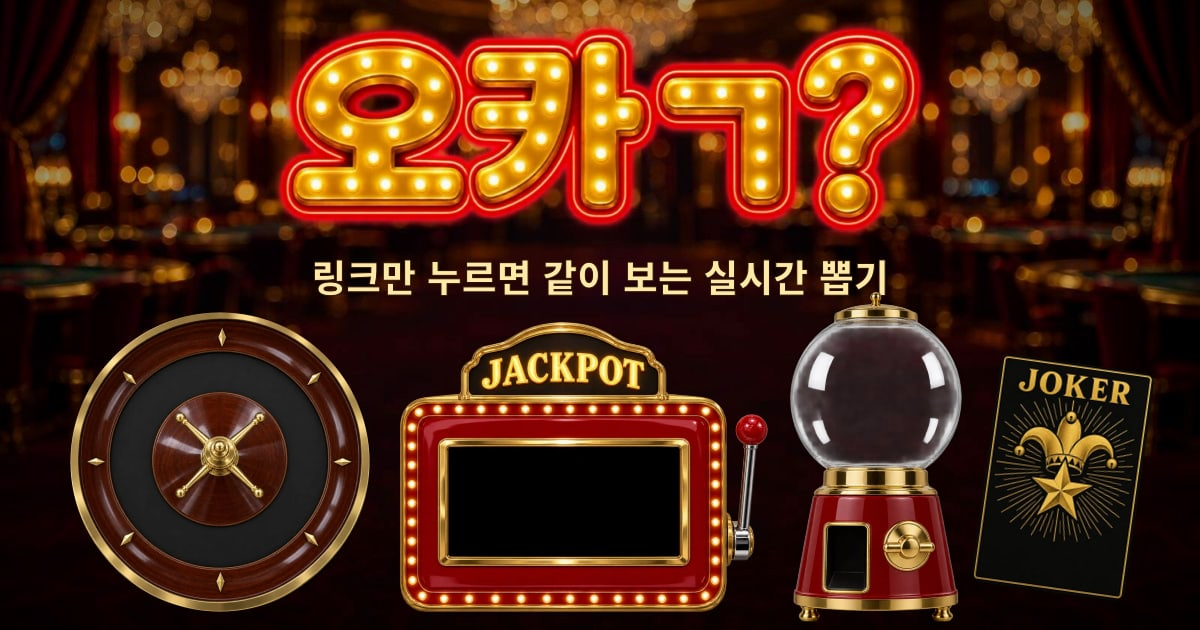
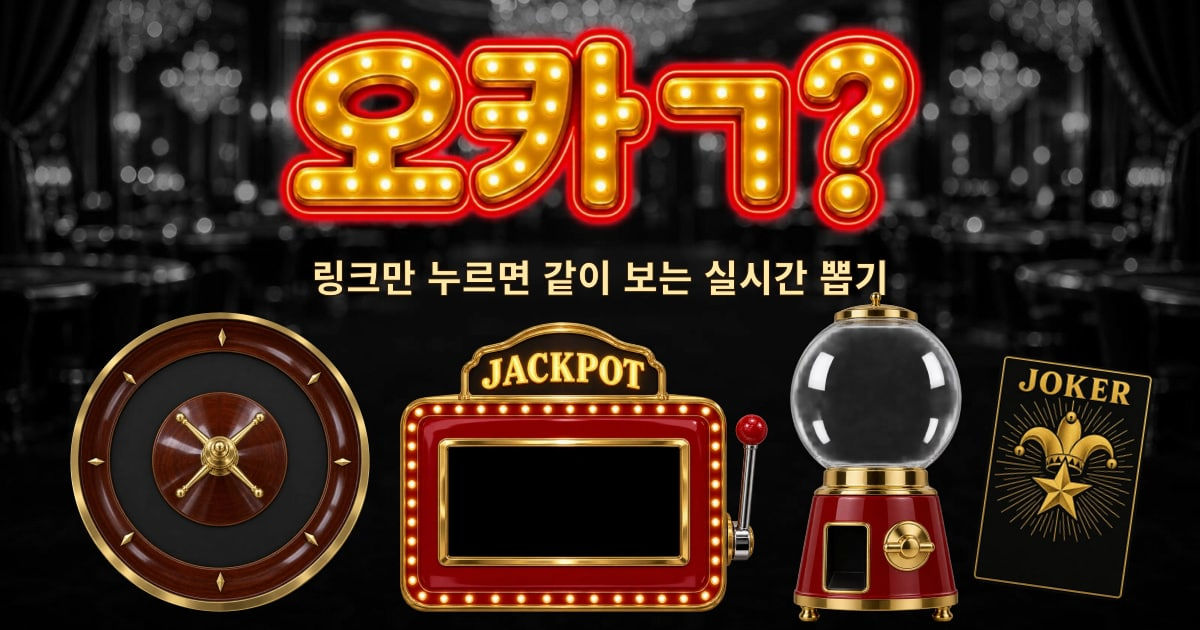
폭탄·주사위·제비 뽑기 추가, 휴대폰 우선 손질, 에메랄드 공유 미리보기
Claude-Session: https://claude.ai/code/session_01AtgNkHGRAiSxDWnrPzRNva

diff --git a/index.html b/index.html
@@ -126,7 +126,7 @@ button{-webkit-tap-highlight-color:transparent}
 .stageWrap:fullscreen{transform:none}
 .lite .stageWrap,.lite .stageWrap *{transform:none!important;will-change:auto;transform-style:flat}
 .lite .stage{perspective:none}
-.modes{display:grid;grid-template-columns:repeat(5,1fr);gap:4px;margin-bottom:12px;padding:4px;border-radius:14px;border:1px solid var(--line);background:var(--field)}
+.modes{display:grid;grid-template-columns:repeat(8,1fr);gap:4px;margin-bottom:12px;padding:4px;border-radius:14px;border:1px solid var(--line);background:var(--field)}
 .mode{
   display:flex;align-items:center;justify-content:center;gap:8px;min-height:46px;padding:9px 6px 8px;border:0;border-radius:10px;cursor:pointer;
   font:400 17px/1 var(--display);color:var(--dim);background:transparent;transition:background .15s,color .15s,box-shadow .15s;
@@ -252,7 +252,8 @@ textarea.field{display:block;width:100%;margin-top:8px;resize:vertical;min-heigh
 [hidden]{display:none!important}
 
 @media(max-width:900px){
-  .layout{grid-template-columns:1fr}
+  .layout{grid-template-columns:minmax(0,1fr)}
+  .stage,.modes{min-width:0;max-width:100%}
   /* 휴대폰: 뽑기 시작은 화면 맨 아래에 붙어서 스크롤해도 따라옵니다 */
   .gobar{position:fixed;left:0;right:0;bottom:0;z-index:8;padding:22px 14px calc(12px + env(safe-area-inset-bottom,0px));background:linear-gradient(180deg,rgba(4,18,14,0),rgba(4,18,14,.94) 34%);pointer-events:none}
   .gobar .btn.go{pointer-events:auto;max-width:560px;margin:0 auto;display:block;font-size:25px;padding:15px 16px 13px;border-radius:17px;box-shadow:inset 0 0 0 2px #FFD98A, 0 5px 0 #7A0A28, 0 10px 24px rgba(227,32,79,.45)}
@@ -260,10 +261,20 @@ textarea.field{display:block;width:100%;margin-top:8px;resize:vertical;min-heigh
   body.hasGo .toasts{bottom:calc(104px + env(safe-area-inset-bottom,0px))}
 }
 @media(max-width:520px){
-  .modes{gap:6px}
-  .mode{font-size:13.5px;gap:4px;padding:8px 0 7px;flex-direction:column;min-height:52px}
+  .modes{display:flex;gap:3px;overflow-x:auto;scrollbar-width:none;scroll-snap-type:x proximity;-webkit-overflow-scrolling:touch}
+  .modes::-webkit-scrollbar{display:none}
+  .mode{flex:0 0 auto;min-width:66px;font-size:13px;gap:4px;padding:8px 6px 7px;flex-direction:column;min-height:52px;scroll-snap-align:start}
   .mode svg{width:18px;height:18px}
-  .stage{padding:10px}
+  .stage{padding:8px}
+  .wrap{padding:12px 10px 64px}
+  .top{gap:8px;margin-bottom:12px}
+  .logo.art img{height:44px}
+  .btn.ghost{font-size:14px;padding:9px 12px 8px}
+  #copyBtn{font-size:16px;padding:10px 14px 9px}
+  .notice{font-size:12.5px;padding:8px 12px}
+  .under{margin-top:10px}
+  .status{font-size:14.5px}
+  .side{padding:16px 14px}
   .stageWrap{padding:12px}
   .win,.floaters{inset:14px}
   .emo{width:40px;height:40px;font-size:19px}
@@ -387,9 +398,12 @@ const ICON = {
   ladder: '<path d="M7 3v18M17 3v18M7 8h10M7 13h10M7 18h10"/>',
   capsule: '<circle cx="12" cy="12" r="9"/><path d="M3 12h18M8 7.5a5 5 0 0 1 4-2"/>',
   slot: '<rect x="3" y="5" width="15" height="14" rx="2.5"/><path d="M8 5v14M13 5v14M21 8v7"/><circle cx="21" cy="7" r="1.6"/>',
-  cards: '<rect x="3.5" y="6" width="10" height="14" rx="2" transform="rotate(-10 8.5 13)"/><rect x="10.5" y="4" width="10" height="14" rx="2" transform="rotate(8 15.5 11)"/>'
+  cards: '<rect x="3.5" y="6" width="10" height="14" rx="2" transform="rotate(-10 8.5 13)"/><rect x="10.5" y="4" width="10" height="14" rx="2" transform="rotate(8 15.5 11)"/>',
+  bomb: '<circle cx="11" cy="14" r="7"/><path d="M14 8l3-3M17 5l2-1M15.5 6.5l1.5 1.5"/>',
+  dice: '<rect x="3" y="3" width="18" height="18" rx="4"/><circle cx="8" cy="8" r="1.2" fill="currentColor"/><circle cx="16" cy="8" r="1.2" fill="currentColor"/><circle cx="12" cy="12" r="1.2" fill="currentColor"/><circle cx="8" cy="16" r="1.2" fill="currentColor"/><circle cx="16" cy="16" r="1.2" fill="currentColor"/>',
+  straws: '<path d="M5 10h14l-1.5 10h-11z"/><path d="M9 10V4M12 10V3M15 10V5"/><circle cx="12" cy="3" r="1.2" fill="currentColor"/>'
 };
-const MODES = [{id:'roulette',name:'룰렛'},{id:'slot',name:'슬롯'},{id:'cards',name:'카드'},{id:'capsule',name:'캡슐'},{id:'ladder',name:'사다리'}];
+const MODES = [{id:'roulette',name:'룰렛'},{id:'slot',name:'슬롯'},{id:'cards',name:'카드'},{id:'capsule',name:'캡슐'},{id:'ladder',name:'사다리'},{id:'bomb',name:'폭탄'},{id:'dice',name:'주사위'},{id:'straws',name:'제비'}];
 const COLORS = ['#FFC53D','#FF5C7A','#36E2D0','#B18CFF','#FF8A3D','#7BE65A','#4DB8FF','#FF7AE0'];
 const EMO = ['👏','😂','😱','🙏','☕','🔥'];
 const SPIN = 8000, HOLD = 2600, MIX = 3200, EACH = 3200, INTRO = 900, TRACE = 7000, LREV = 1400, LEAD = 3200, MISS = 1300, JHOLD = 2800;
@@ -611,7 +625,20 @@ function buildPlan(r) {
     Object.assign(plan, { R, rungs, winCols, paths, winners: idx.filter(i => winCols.includes(paths[i].end)), total: INTRO + TRACE + LREV });
   } else {
     const winners = shuffle(idx.slice(), rng).slice(0, k); plan.winners = winners;
-    if (r.mode === 'capsule') {
+    if (r.mode === 'bomb') {
+      plan.phases = winners.map((w, i) => { const rem = idx.filter(x => !winners.slice(0, i).includes(x)), j = rem.indexOf(w), start = Math.floor(rng() * rem.length); return { rem, start, hops: ((j - start) % rem.length + rem.length) % rem.length + rem.length * (2 + Math.floor(rng() * 2)) + (rem.length < 4 ? rem.length * 2 : 0) }; });
+      plan.total = k * (BHOP + BHOLD);
+    } else if (r.mode === 'dice') {
+      /* 당첨자가 가장 높은 눈. 당첨이 여럿이면 6,5,4… 순서로, 나머지는 그보다 낮은 눈 */
+      plan.vals = idx.map(() => 1 + Math.floor(rng() * Math.max(1, 6 - k))); winners.forEach((w, i) => { plan.vals[w] = 6 - i; });
+      const order = shuffle(idx.slice(), rng), gap = clamp(2200 / n, 90, 350); plan.settleAt = []; order.forEach((i, q) => { plan.settleAt[i] = DROLL + q * gap; });
+      plan.revealAt = DROLL + (n - 1) * gap + DREV; plan.total = plan.revealAt + DHOLD;
+    } else if (r.mode === 'straws') {
+      const order = shuffle(idx.filter(x => !winners.includes(x)), rng);
+      winners.forEach(w => { const lo = Math.ceil(order.length * .5); order.splice(lo + Math.floor(rng() * (order.length - lo + 1)), 0, w); });
+      const gap = clamp(7000 / n, 380, 900); let t = 700; plan.pullAt = []; order.forEach(i => { plan.pullAt[i] = t; t += winners.includes(i) ? gap + 500 : gap; });
+      plan.revealAt = t + 300; plan.total = plan.revealAt + 2200;
+    } else if (r.mode === 'capsule') {
       plan.total = MIX + k * EACH;
     } else if (r.mode === 'cards') {
       /* 한 장씩 뒤집고, 조커를 받은 사람이 당첨. 조커는 뒤쪽 순서에 섞여 있습니다. */
@@ -796,8 +823,8 @@ function drawBackdrop(T) {
   if (!PHONE || GLOW) {   /* 색이 천천히 흐르는 조명: 작은 캔버스에 가끔만 다시 그립니다 */
     const hue = Math.floor((T * .008) % 360 / 3) * 3;
     if (hue !== hueLast || hueCv.width !== Math.ceil(W / 8)) { hueLast = hue; hueCv.width = Math.ceil(W / 8); hueCv.height = Math.ceil(H / 8); const w = hueCv.width, h = hueCv.height;
-      const cg = huex.createRadialGradient(w * (.5 + .35 * Math.sin(T * .00011)), h * .5, 0, w * .5, h * .5, Math.max(w, h) * .7); cg.addColorStop(0, `hsl(${hue} 90% 60%)`); cg.addColorStop(1, 'rgba(0,0,0,0)'); huex.clearRect(0, 0, w, h); huex.fillStyle = cg; huex.fillRect(0, 0, w, h); }
-    ctx.save(); ctx.globalCompositeOperation = 'lighter'; ctx.globalAlpha = .13; ctx.drawImage(hueCv, 0, 0, W, H); ctx.restore();
+      const cg = huex.createRadialGradient(w * (.5 + .35 * Math.sin(T * .00011)), h * .5, 0, w * .5, h * .5, Math.max(w, h) * .7); cg.addColorStop(0, `hsl(${hue} 80% 55%)`); cg.addColorStop(.4, `hsl(${hue} 80% 55% / .3)`); cg.addColorStop(1, `hsl(${hue} 80% 55% / 0)`); huex.clearRect(0, 0, w, h); huex.fillStyle = cg; huex.fillRect(0, 0, w, h); }
+    ctx.save(); ctx.globalCompositeOperation = 'lighter'; ctx.globalAlpha = .09; ctx.drawImage(hueCv, 0, 0, W, H); ctx.restore();
   }
   for (const k of [0, 1]) ctx.drawImage(lightCv, W * (.5 + .4 * Math.sin(T * .00021 + k * 2.4)) - r + px * 18 * (k + 1), H * (.45 + .22 * Math.cos(T * .00017 + k * 1.3)) - r + py * 12 * (k + 1), r * 2, r * 2);
   const rng = mulberry32(77);
@@ -1200,12 +1227,158 @@ function drawWinFx(plan, t, T) {
   }
 }
 
+
+/* ───────── 폭탄 돌리기: 폭탄이 사람들 사이를 돌다가 멈춘 사람이 당첨 ───────── */
+const BHOP = 6200, BHOLD = 2400;
+function avatarRing(n) {   /* 참가자를 둥글게 배치. 많으면 두 겹 */
+  const cx = W / 2, cy = H / 2 + 6, two = n > 12, R1 = Math.min(W, H) * (two ? .4 : .36), R2 = R1 * .58, pts = [];
+  const n1 = two ? Math.ceil(n * .62) : n, n2 = n - n1, ar = clamp(Math.min(W, H) * (two ? .055 : .075) * (n1 > 8 ? 8 / n1 + .5 : 1), 14, 34);
+  for (let i = 0; i < n; i++) {
+    const inner = i >= n1, m = inner ? n2 : n1, q = inner ? i - n1 : i, a = -Math.PI / 2 + q / m * TAU + (inner ? Math.PI / m : 0), r = inner ? R2 : R1;
+    pts.push({ x: cx + Math.cos(a) * r, y: cy + Math.sin(a) * r * .88, r: ar });
+  }
+  return pts;
+}
+function avatarDot(p, who, r, dim, lit) {
+  ctx.save(); ctx.globalAlpha = dim ? .28 : 1;
+  disc(p.x + 2, p.y + 4, r, 'rgba(0,0,0,.4)');
+  disc(p.x, p.y, r + 2.5, lit ? '#FFF7D1' : 'rgba(255,255,255,.85)'); disc(p.x, p.y, r, vgrad(p.y - r, p.y + r, shade(who.color, .35), who.color, shade(who.color, -.15)));
+  if (lit) emit(() => disc(p.x, p.y, r * 1.5, 'rgba(255,220,130,.35)'));
+  const [t, px] = fitFont(Array.from(who.name)[0] || '?', r * 1.05, r * 1.6); ctx.fillStyle = INK; ctx.textAlign = 'center'; ctx.textBaseline = 'middle'; ctx.fillText(t, p.x, p.y + px * .07);
+  ctx.font = font(clamp(r * .62, 10, 14)); const nm = fit(who.name, r * 3.2); ctx.lineWidth = 3; ctx.strokeStyle = 'rgba(0,0,0,.55)'; ctx.strokeText(nm, p.x, p.y + r + 12); ctx.fillStyle = '#FFF4DC'; ctx.fillText(nm, p.x, p.y + r + 12);
+  ctx.restore();
+}
+function bombAt(ph, t) {   /* 몇 번째 사람 위에 있나: 처음엔 빠르게, 끝엔 느리게 */
+  const u = clamp(t / BHOP, 0, 1), eased = 1 - Math.pow(1 - u, 3.2), h = Math.floor(ph.hops * eased + 1e-6);
+  return { i: (ph.start + h) % ph.rem.length, h, next: (ph.start + h + 1) % ph.rem.length, frac: ph.hops * eased - h };
+}
+function drawBomb(P, plan, e, T) {
+  const n = P.length; if (!n) { waiting('참가자를 기다리는 중'); return; }
+  const live = plan && e >= 0, s = live ? seqPosB(e, plan.k) : null, ph = s ? plan.phases[s.i] : null;
+  const items = ph ? ph.rem : P.map((_, i) => i), pts = avatarRing(items.length), gone = plan ? plan.winners.slice(0, s ? s.i + (s.hold ? 1 : 0) : 0) : [];
+  const b = ph ? bombAt(ph, Math.min(s.local, BHOP)) : null, boom = s && s.hold ? s.local - BHOP : -1;
+  items.forEach((pi, q) => avatarDot(pts[q], P[pi], pts[q].r, gone.includes(pi) && !(s && s.hold && pi === plan.winners[s.i]), b && !s.hold && b.i === q && (Math.floor(T / 90) % 2 === 0 || b.frac < .5)));
+  if (!plan) { ctx.font = font(clamp(W / 26, 14, 20), true); ctx.textAlign = 'center'; ctx.fillStyle = '#FFE9A6'; ctx.fillText('폭탄이 멈춘 사람이 당첨', W / 2, H / 2 + 6); return; }
+  if (!b) return;
+  const br = clamp(Math.min(W, H) * .07, 18, 40);
+  if (boom < 0) {
+    const a = pts[b.i], nx = pts[b.next], f = clamp((b.frac - .35) / .65, 0, 1), jump = Math.sin(f * Math.PI);
+    const x = a.x + (nx.x - a.x) * f, y = a.y - a.r - br * .9 + (nx.y - a.y) * f - jump * br * 1.6;
+    const fuse = clamp((s.local - (BHOP - 1400)) / 1400, 0, 1);
+    ctx.save(); ctx.translate(x, y); ctx.rotate(Math.sin(T * .006) * .12 * (1 - fuse) + f * .3);
+    disc(3, 5, br, 'rgba(0,0,0,.4)');
+    const bg = ctx.createRadialGradient(-br * .35, -br * .35, br * .1, 0, 0, br); bg.addColorStop(0, '#5A5A66'); bg.addColorStop(.6, '#1C1C24'); bg.addColorStop(1, '#07070A');
+    disc(0, 0, br, bg); disc(-br * .3, -br * .32, br * .22, 'rgba(255,255,255,.35)');
+    rr(-br * .22, -br * 1.15, br * .44, br * .4, 4, '#8A8A96');
+    ctx.lineWidth = 3; ctx.strokeStyle = '#C9A15A'; ctx.beginPath(); ctx.moveTo(0, -br * 1.1); ctx.quadraticCurveTo(br * .5, -br * 1.7, br * .9 * (1 - fuse * .8), -br * (1.9 - fuse * .5)); ctx.stroke();
+    const sx = br * .9 * (1 - fuse * .8), sy = -br * (1.9 - fuse * .5);
+    emit(() => { disc(sx, sy, 4 + Math.random() * 3, '#FFF3B0'); disc(sx, sy, 9 + Math.random() * 4, 'rgba(255,170,40,.45)'); });
+    if (!REDUCED) for (let i = 0; i < 5; i++) { const an = (T * .02 + i * 1.3) % TAU, d = 8 + ((T * .25 + i * 37) % 22); disc(sx + Math.cos(an) * d, sy + Math.sin(an) * d - d * .4, 1.6, 'rgba(255,220,140,.8)'); }
+    ctx.restore();
+    if (fuse > 0 && ph.rem.length > 1) { ctx.font = font(clamp(W / 22, 15, 24), true); ctx.textAlign = 'center'; ctx.fillStyle = `rgba(255,120,120,${.6 + .4 * Math.sin(T * .02)})`; ctx.fillText('곧 터집니다…', W / 2, H / 2 + 6); }
+  } else {
+    const a = pts[b.i], w = P[ph.rem[b.i]], k = boom / 1000;
+    if (k < .9 && !REDUCED) {
+      const rr0 = br * (1 + k * 9);
+      ctx.save(); ctx.globalAlpha = 1 - k / .9;
+      disc(a.x, a.y, rr0, `rgba(255,140,40,${.5 * (1 - k)})`); disc(a.x, a.y, rr0 * .6, `rgba(255,230,160,${.7 * (1 - k)})`);
+      ctx.lineWidth = 6 * (1 - k); ctx.strokeStyle = '#FFF3B0'; ctx.beginPath(); ctx.arc(a.x, a.y, rr0 * 1.1, 0, TAU); ctx.stroke();
+      const rng = mulberry32(plan.seed ^ (s.i + 1) * 977);
+      for (let i = 0; i < 26; i++) { const an = rng() * TAU, sp = 90 + rng() * 220, d = sp * k, sz = 2 + rng() * 4; disc(a.x + Math.cos(an) * d, a.y + Math.sin(an) * d + 120 * k * k, sz, i % 3 ? '#3A3A44' : '#FF9A3D'); }
+      ctx.restore();
+    }
+    for (let i = 0; i < 4; i++) { const t2 = k - i * .12; if (t2 > 0 && t2 < 1.6) disc(a.x + (i - 1.5) * 14, a.y - 30 - t2 * 60, 14 + t2 * 22, `rgba(60,60,70,${.35 * (1 - t2 / 1.6)})`); }
+    namePlate(W / 2, H / 2 + 6, w.name, w.color, back((boom - 250) / 450), Math.min(W - 40, 440));
+  }
+}
+function seqPosB(e, k) {
+  const i = Math.min(Math.floor(e / (BHOP + BHOLD)), k - 1), local = e - i * (BHOP + BHOLD);
+  return { i, local, hold: local >= BHOP };
+}
+
+/* ───────── 주사위: 모두 한 번에 굴리고, 가장 높은 눈이 당첨 ───────── */
+const DROLL = 3000, DREV = 1200, DHOLD = 2000;
+function diceGrid(n) {
+  const cols = clamp(Math.ceil(Math.sqrt(n * (W / H) * 1.1)), 1, 8), rows = Math.ceil(n / cols);
+  const cw = (W - 24) / cols, chh = (H - 36) / rows, sz = clamp(Math.min(cw * .5, chh * .42), 22, 74), pts = [];
+  for (let i = 0; i < n; i++) { const c = i % cols, r = Math.floor(i / cols), inRow = Math.min(cols, n - r * cols), off = (cols - inRow) * cw / 2; pts.push({ x: 12 + off + cw * (c + .5), y: 18 + chh * (r + .5) - sz * .12, sz }); }
+  return pts;
+}
+function drawDie(x, y, sz, face, rot, tilt, color) {
+  ctx.save(); ctx.translate(x, y); ctx.rotate(rot); ctx.scale(1, Math.max(.3, Math.abs(Math.cos(tilt))));
+  rr(-sz / 2 + 3, -sz / 2 + 6, sz, sz, sz * .2, 'rgba(0,0,0,.4)');
+  rr(-sz / 2, -sz / 2, sz, sz, sz * .2, vgrad(-sz / 2, sz / 2, '#FFFDF4', '#F0E8D2', '#CFC3A4'), 'rgba(90,70,40,.6)', 1.5);
+  rr(-sz / 2 + 4, -sz / 2 + 3, sz - 8, sz * .3, sz * .12, 'rgba(255,255,255,.55)');
+  const pip = sz * .09, o = sz * .27, P6 = { 1: [[0, 0]], 2: [[-o, -o], [o, o]], 3: [[-o, -o], [0, 0], [o, o]], 4: [[-o, -o], [o, -o], [-o, o], [o, o]], 5: [[-o, -o], [o, -o], [0, 0], [-o, o], [o, o]], 6: [[-o, -o], [o, -o], [-o, 0], [o, 0], [-o, o], [o, o]] };
+  for (const [px, py] of P6[face] || []) { disc(px, py + 1, pip, 'rgba(0,0,0,.25)'); disc(px, py, pip, face === 1 || face === 4 ? '#D7263D' : color || '#1A0A0E'); }
+  ctx.restore();
+}
+function drawDice(P, plan, e, T) {
+  const n = P.length; if (!n) { waiting('참가자를 기다리는 중'); return; }
+  const pts = diceGrid(n), live = plan && e >= 0, rng = mulberry32((plan ? plan.seed : 7) ^ 0xD1CE);
+  if (!plan) { ctx.font = font(clamp(W / 26, 14, 20), true); ctx.textAlign = 'center'; ctx.fillStyle = '#FFE9A6'; ctx.fillText('가장 높은 눈이 당첨', W / 2, H - 14); }
+  P.forEach((who, i) => {
+    const p = pts[i], settleAt = plan ? plan.settleAt[i] : 0, settled = live && e >= settleAt, rolling = live && !settled;
+    const ph = rng() * TAU, spd = 7 + rng() * 5;
+    let face = plan ? plan.vals[i] : 1 + Math.floor(rng() * 6), rot = 0, tilt = 0, y = p.y;
+    if (rolling) { const u = e / settleAt, slow = clamp((settleAt - e) / 900, 0, 1); face = 1 + Math.floor((e / (80 + (1 - slow) * 260) + i * 2.3) % 6); rot = Math.sin(T * .004 * spd + ph) * .6 * slow; tilt = T * .009 * spd * slow + ph; y = p.y - Math.abs(Math.sin(T * .006 * spd + ph)) * p.sz * .5 * slow; }
+    const win = plan && plan.winners.includes(i), rev = live && e >= plan.revealAt, dim = rev && !win;
+    ctx.save(); if (dim) ctx.globalAlpha = .35;
+    if (rev && win) emit(() => disc(p.x, p.y, p.sz * .95, `rgba(255,220,130,${.25 + .15 * Math.sin(T * .01)})`));
+    drawDie(p.x, y, p.sz, face, rot, tilt, settled && win && rev ? '#B8860B' : null);
+    if (settled && !REDUCED && e - settleAt < 260) { const k = (e - settleAt) / 260; ctx.strokeStyle = `rgba(255,243,176,${1 - k})`; ctx.lineWidth = 3; ctx.beginPath(); ctx.arc(p.x, p.y, p.sz * (.7 + k * .6), 0, TAU); ctx.stroke(); }
+    ctx.font = font(clamp(p.sz * .3, 11, 16)); ctx.textAlign = 'center'; ctx.textBaseline = 'middle'; const nm = fit(who.name, p.sz * 2.2);
+    ctx.lineWidth = 3; ctx.strokeStyle = 'rgba(0,0,0,.55)'; ctx.strokeText(nm, p.x, p.y + p.sz * .78); ctx.fillStyle = rev && win ? '#FFE9A6' : '#FFF4DC'; ctx.fillText(nm, p.x, p.y + p.sz * .78);
+    ctx.restore();
+  });
+  if (live && e >= plan.revealAt) { const w = plan.winners.map(i => P[i]); namePlate(W / 2, H / 2, plan.names.join(', '), w[0].color, back((e - plan.revealAt - 200) / 450), Math.min(W - 40, 460)); }
+}
+
+/* ───────── 제비뽑기: 통에서 하나씩 뽑고, 끝이 빨간 제비가 당첨 ───────── */
+function drawStraws(P, plan, e, T) {
+  const n = P.length; if (!n) { waiting('참가자를 기다리는 중'); return; }
+  const cw = Math.min(W * .5, 300), chh = Math.min(H * .42, 210), cx = W / 2, cy = H - 26 - chh / 2, top = cy - chh / 2, bot = cy + chh / 2;
+  const live = plan && e >= 0, len = clamp(Math.min(H * .42, (top - 50) / 1.06), 70, 230), sw = clamp(Math.min(cw * 1.3 / n, 14), 5, 14), spread = Math.min(cw * .78, n * (sw + 6));
+  const X = i => cx - spread / 2 + spread * (n === 1 ? .5 : i / (n - 1)), tipR = sw * 1.1;
+  /* 통 뒤판 */
+  ctx.fillStyle = 'rgba(0,0,0,.45)'; ctx.beginPath(); ctx.ellipse(cx, bot + 4, cw * .56, 12, 0, 0, TAU); ctx.fill();
+  const cupBack = () => { ctx.beginPath(); ctx.moveTo(cx - cw / 2, top); ctx.lineTo(cx + cw / 2, top); ctx.lineTo(cx + cw * .44, bot); ctx.lineTo(cx - cw * .44, bot); ctx.closePath(); };
+  cupBack(); ctx.fillStyle = vgrad(top, bot, '#2A1604', '#120903'); ctx.fill();
+  /* 제비: 표시는 아래쪽 끝에 있어 통 안에 숨어 있고, 뽑아 올리면 드러납니다 */
+  const order = plan ? plan.pullAt : null, lastPull = order ? Math.max(...order.filter(t => live && e >= t), -1) : -1;
+  P.forEach((who, i) => {
+    const x = X(i), pa = order ? order[i] : Infinity, pulled = live && e >= pa, u = pulled ? clamp((e - pa) / 750, 0, 1) : 0, rise = 1 - Math.pow(1 - u, 3);
+    const win = plan && plan.winners.includes(i), tilt = (i - (n - 1) / 2) / Math.max(n - 1, 1) * .16 * (1 - rise);
+    const yTop = top - len * .42 - rise * len * .64, yBot = yTop + len, tipShow = clamp((top - 4 - yBot) / (tipR * 2), 0, 1);
+    ctx.save(); ctx.translate(x, top); ctx.rotate(tilt); ctx.translate(-x, -top);
+    rr(x - sw / 2 + 2, yTop + 3, sw, len, sw / 2, 'rgba(0,0,0,.35)');
+    rr(x - sw / 2, yTop, sw, len, sw / 2, vgrad(yTop, yBot, '#F6E6C2', '#D9B986'), 'rgba(90,60,20,.5)', 1);
+    ctx.fillStyle = 'rgba(255,255,255,.35)'; ctx.fillRect(x - sw / 2 + 1.5, yTop + 3, sw * .25, len - 6);
+    if (tipShow > 0) {
+      if (win) { emit(() => disc(x, yBot - tipR, tipR * 2.4 * tipShow, `rgba(255,80,110,${.4 * tipShow})`)); disc(x, yBot - tipR, tipR * 1.15 * tipShow, vgrad(yBot - tipR * 2, yBot, '#FF8DA6', '#E0244F', '#8E0D2E')); disc(x - tipR * .3, yBot - tipR * 1.3, tipR * .3 * tipShow, 'rgba(255,255,255,.55)'); }
+      else disc(x, yBot - tipR, tipR * .85 * tipShow, '#3A2A1A');
+    }
+    ctx.restore();
+    if (pulled && (win || pa === lastPull)) { ctx.font = font(clamp(sw * 1.15, 11, 15)); ctx.textAlign = 'center'; ctx.textBaseline = 'middle'; const nm = fit(who.name, 90); ctx.lineWidth = 3; ctx.strokeStyle = 'rgba(0,0,0,.6)'; ctx.strokeText(nm, x, yTop - 12); ctx.fillStyle = win ? '#FFB3C4' : '#FFF4DC'; ctx.fillText(nm, x, yTop - 12); }
+  });
+  /* 통 앞판 */
+  cupBack(); ctx.fillStyle = vgrad(top, bot, '#8A1F3A', '#4A0E1F'); ctx.fill();
+  ctx.lineWidth = 2; ctx.strokeStyle = '#E8B93A'; ctx.stroke();
+  ctx.fillStyle = 'rgba(255,255,255,.1)'; ctx.beginPath(); ctx.moveTo(cx - cw * .42, top + 8); ctx.lineTo(cx - cw * .3, top + 8); ctx.lineTo(cx - cw * .26, bot - 8); ctx.lineTo(cx - cw * .37, bot - 8); ctx.closePath(); ctx.fill();
+  ctx.beginPath(); ctx.ellipse(cx, top, cw / 2, 12, 0, 0, TAU); ctx.fillStyle = '#5E1227'; ctx.fill(); ctx.strokeStyle = '#FFE08A'; ctx.lineWidth = 2.5; ctx.stroke();
+  ctx.beginPath(); ctx.ellipse(cx, top, cw / 2 - 8, 7, 0, 0, TAU); ctx.fillStyle = '#1A0A0E'; ctx.fill();
+  ctx.font = font(clamp(cw * .11, 14, 26), true); ctx.textAlign = 'center'; ctx.textBaseline = 'middle'; ctx.fillStyle = '#FFE08A'; ctx.fillText('제비뽑기', cx, cy + 10);
+  if (!plan) { ctx.font = font(clamp(W / 26, 14, 20), true); ctx.fillStyle = '#FFE9A6'; ctx.fillText('끝이 빨간 제비가 당첨', W / 2, 30); }
+  /* 뽑는 중인 이름 안내 */
+  if (live && e >= plan.revealAt) { const w = plan.winners.map(i => P[i]); namePlate(W / 2, Math.max(60, top - len * .9 - 50), plan.names.join(', '), w[0].color, back((e - plan.revealAt - 150) / 450), Math.min(W - 40, 460)); }
+}
+
 /* ───────── 소리 타이밍: 지나간 순간만 한 번 울립니다 ───────── */
 let prevE = -Infinity, prevRound = null;
 let reelA = null;
 function cues(plan, e) {
   const hit = t => prevE < t && e >= t && e - t < 260;
-  if (hit(-3000)) snd.say('go_' + plan.mode);
+  if (hit(-3000)) snd.say(snd.has('v_go_' + plan.mode) ? 'go_' + plan.mode : 'drum');
   for (const t of [-3000, -2000, -1000]) if (hit(t)) sfx.beep(false);
   if (hit(0)) sfx.beep(true);
   if (plan.mode === 'roulette') for (let i = 0; i < plan.k; i++) {
@@ -1245,6 +1418,23 @@ function cues(plan, e) {
     if (hit(INTRO + TRACE - 4000)) snd.fx('drumroll', .7);
     if (hit(INTRO + TRACE - 2400)) snd.say('drum');
     if (hit(INTRO + TRACE)) sfx.ding();
+  }
+  if (plan.mode === 'bomb') for (let i = 0; i < plan.k; i++) {
+    const s = i * (BHOP + BHOLD), ph = plan.phases[i];
+    if (e >= s && e < s + BHOP && prevE >= s) { const a = bombAt(ph, e - s).h, b = bombAt(ph, prevE - s).h; if (a !== b) sfx.tick(.9 + (a % 3) * .15); }
+    if (hit(s) && i > 0) snd.say('next');
+    if (hit(s + BHOP - 1400)) sfx.rise(1.3);
+    if (hit(s + BHOP)) { sfx.thunk(); snd.fx('pop', .9, () => sfx.pop()); snd.fx('sting', .5); snd.say('pick'); buzz([40, 30, 160]); }
+  }
+  else if (plan.mode === 'dice') {
+    if (hit(0)) snd.fx('rattle', .8);
+    if (!snd.has('s_rattle') && e >= 0 && e < DROLL && Math.floor(e / 110) !== Math.floor(prevE / 110)) sfx.tick(.6 + Math.random() * .5);
+    plan.settleAt.forEach(t => { if (hit(t)) sfx.clack(); });
+    if (hit(plan.revealAt)) { sfx.ding(); snd.say('pick'); }
+  }
+  else if (plan.mode === 'straws') {
+    plan.pullAt.forEach((t, i) => { if (hit(t)) snd.fx('flip', .6, () => sfx.swish()); if (plan.winners.includes(i) && hit(t + 320)) { snd.fx('sting', .8, () => sfx.sting()); buzz(120); } });
+    if (hit(plan.revealAt)) snd.say('pick');
   }
   if (hit(plan.total)) { snd.fx('tada', .8, () => sfx.win()); buzz([80, 50, 180]); }
   if (hit(plan.total + 450)) snd.say('win');
@@ -1289,7 +1479,7 @@ function frame(T) {
     const fade = REDUCED ? 1 : clamp((T - modeT) / 380, 0, 1);
     ctx.save(); ctx.globalAlpha = fade;
     if (shake) ctx.translate((Math.random() - .5) * shake * 2, (Math.random() - .5) * shake * 2);
-    ({ roulette: drawRoulette, slot: drawSlot, cards: drawCards, capsule: drawCapsule, ladder: drawLadder })[mode()](P, plan, eDraw, T, dt);
+    ({ roulette: drawRoulette, slot: drawSlot, cards: drawCards, capsule: drawCapsule, ladder: drawLadder, bomb: drawBomb, dice: drawDice, straws: drawStraws })[mode()](P, plan, eDraw, T, dt);
     ctx.restore();
     bloom(); drawSweep(T, ph);
     if (ph === 'running') drawHush(plan, e);
@@ -1300,6 +1490,9 @@ function frame(T) {
     else if (ph === 'running') {
       const many = plan.k > 1; let i = 0, t;
       if (plan.mode === 'ladder') t = e < INTRO + TRACE ? '사다리 타는 중' : '결과 공개';
+      else if (plan.mode === 'bomb') { const q = seqPosB(e, plan.k); i = q.i; t = q.hold ? `${plan.names[i]} 앞에서 터졌습니다` : many ? `${plan.k}명 중 ${i + 1}번째, 폭탄 돌리는 중` : '폭탄 돌리는 중'; }
+      else if (plan.mode === 'dice') t = e < DROLL ? '주사위 굴리는 중' : e < plan.revealAt ? '눈 확인 중' : `가장 높은 눈, ${plan.names.join(', ')}`;
+      else if (plan.mode === 'straws') t = e < plan.revealAt ? '제비 뽑는 중' : `빨간 제비, ${plan.names.join(', ')}`;
       else if (plan.mode === 'cards') { const found = plan.winners.filter(w => e >= plan.flipAt[w] + 250).map(w => plan.P[w].name); t = e < plan.flipStart ? '카드 돌리는 중' : found.length ? `조커가 나왔습니다, ${found.join(', ')}` : '카드 여는 중'; }
       else if (plan.mode === 'slot') {
         const { spin, local } = curSpin(plan, e); i = spin.w;
@@ -1308,7 +1501,7 @@ function frame(T) {
         i = e < MIX ? 0 : Math.min(Math.floor((e - MIX) / EACH), plan.k - 1);
         t = e < MIX ? '캡슐 섞는 중' : many ? `${plan.k}명 중 ${i + 1}번째 뽑는 중` : '뽑는 중';
       } else { const q = seqPos(e, plan.k); i = q.i; t = q.hold ? `${plan.names[i]} 칸에 들어갔습니다` : many ? `${plan.k}명 중 ${i + 1}번째, 공이 도는 중` : '공이 도는 중'; }
-      if (many && i > 0 && plan.mode !== 'ladder' && plan.mode !== 'cards') t += `. 지금까지 ${plan.names.slice(0, i).join(', ')}`;
+      if (many && i > 0 && ['roulette', 'slot', 'capsule', 'bomb'].includes(plan.mode)) t += `. 지금까지 ${plan.names.slice(0, i).join(', ')}`;
       setStatus(t);
     } else setStatus('');
   }
